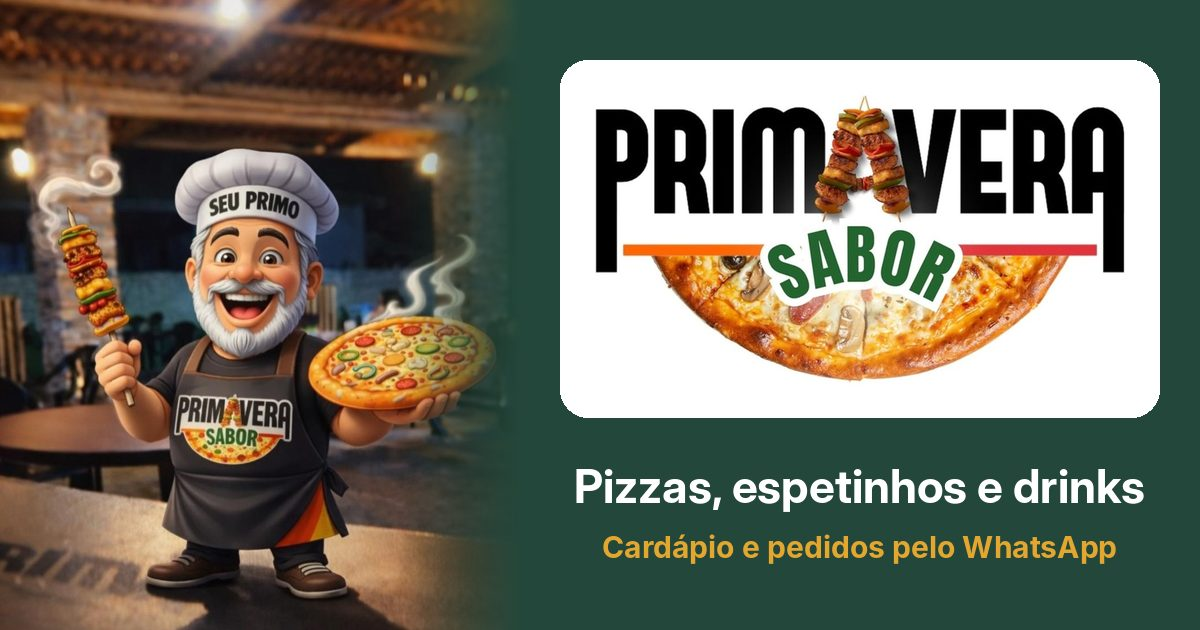
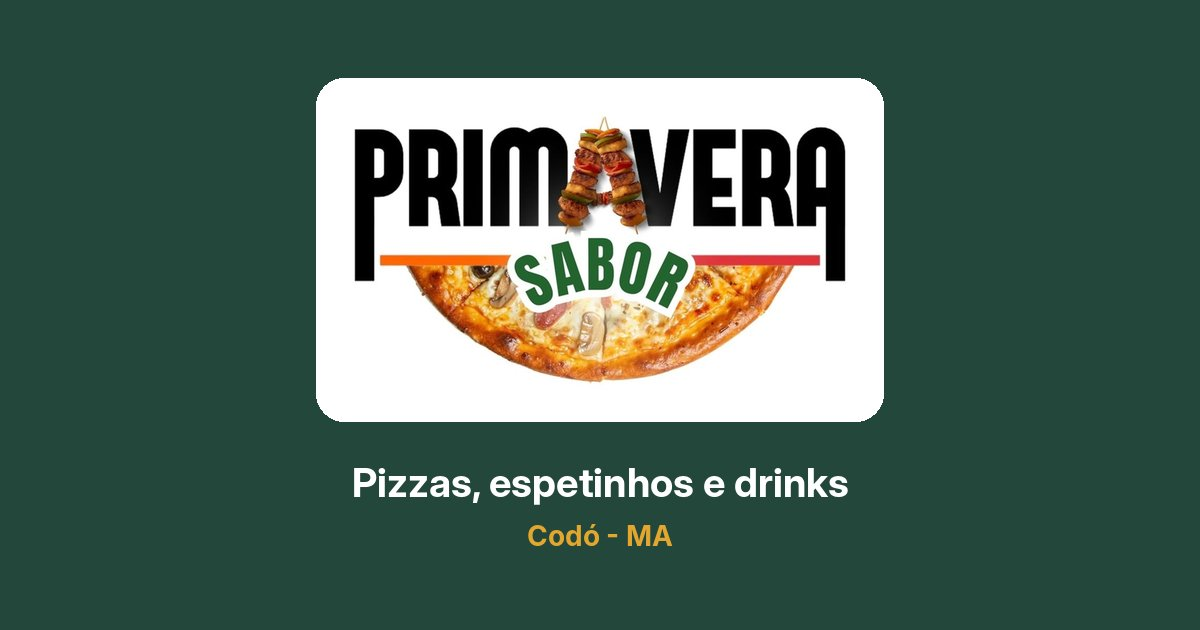
Add files via upload

diff --git a/index.html b/index.html
@@ -7,7 +7,7 @@
   <meta name="description" content="Pizzas, espetinhos, refeições e drinks em Codó-MA. Veja o cardápio e peça pelo WhatsApp.">
 
   <!-- Prévia ao compartilhar o link (WhatsApp, Instagram, Facebook).
-       A imagem compartilhar.jpg precisa estar no GitHub, ao lado deste arquivo.
+       A imagem compartilhar2.jpg precisa estar no GitHub, ao lado deste arquivo.
        SE O ENDEREÇO DO SITE MUDAR, troque o endereço da imagem na linha og:image abaixo. -->
   <meta property="og:type" content="website">
   <meta property="og:url" content="https://primaverasabor.github.io/">
@@ -15,10 +15,10 @@
   <meta property="og:site_name" content="Primavera Sabor">
   <meta property="og:title" content="Primavera Sabor | Sabor de verdade.">
   <meta property="og:description" content="Pizzas, espetinhos, refeições e drinks em Codó-MA. Veja o cardápio e peça pelo WhatsApp.">
-  <meta property="og:image" content="https://primaverasabor.github.io/compartilhar.jpg">
+  <meta property="og:image" content="https://primaverasabor.github.io/compartilhar2.jpg">
   <meta property="og:image:width" content="1200">
   <meta property="og:image:height" content="630">
-  <meta property="og:image:alt" content="Seu Primo, o chef do Primavera Sabor, com espetinho e pizza">
+  <meta property="og:image:alt" content="Logo do Primavera Sabor: pizzas, espetinhos e drinks em Codó-MA">
   <meta name="twitter:card" content="summary_large_image">
 
   <!-- Ícone da aba do navegador -->
